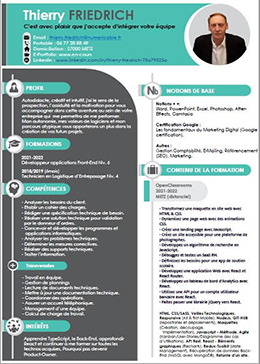
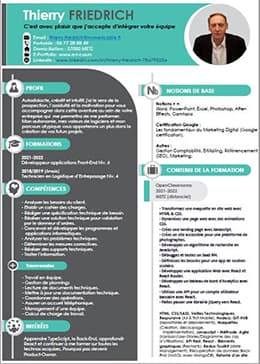
eeeee

diff --git a/src/components/body/curriculum/Cv.jsx b/src/components/body/curriculum/Cv.jsx
@@ -25,7 +25,7 @@ const PdfViewer = () => {
   return (
     <div className="containerPdf" >
       <div className="blockPdf">
-       <img src="./pdf/CoverPDFCV(260x364).jpg" className="imgCV" alt="Mon CV" style={{ width: 260, height: 364 }} />
+       <img src="./pdf/CoverPDFCV.webp" className="imgCV" alt="Mon CV" style={{ width: 260, height: 364 }} />
       </div>
       <div
         className="containerBtnCV"
